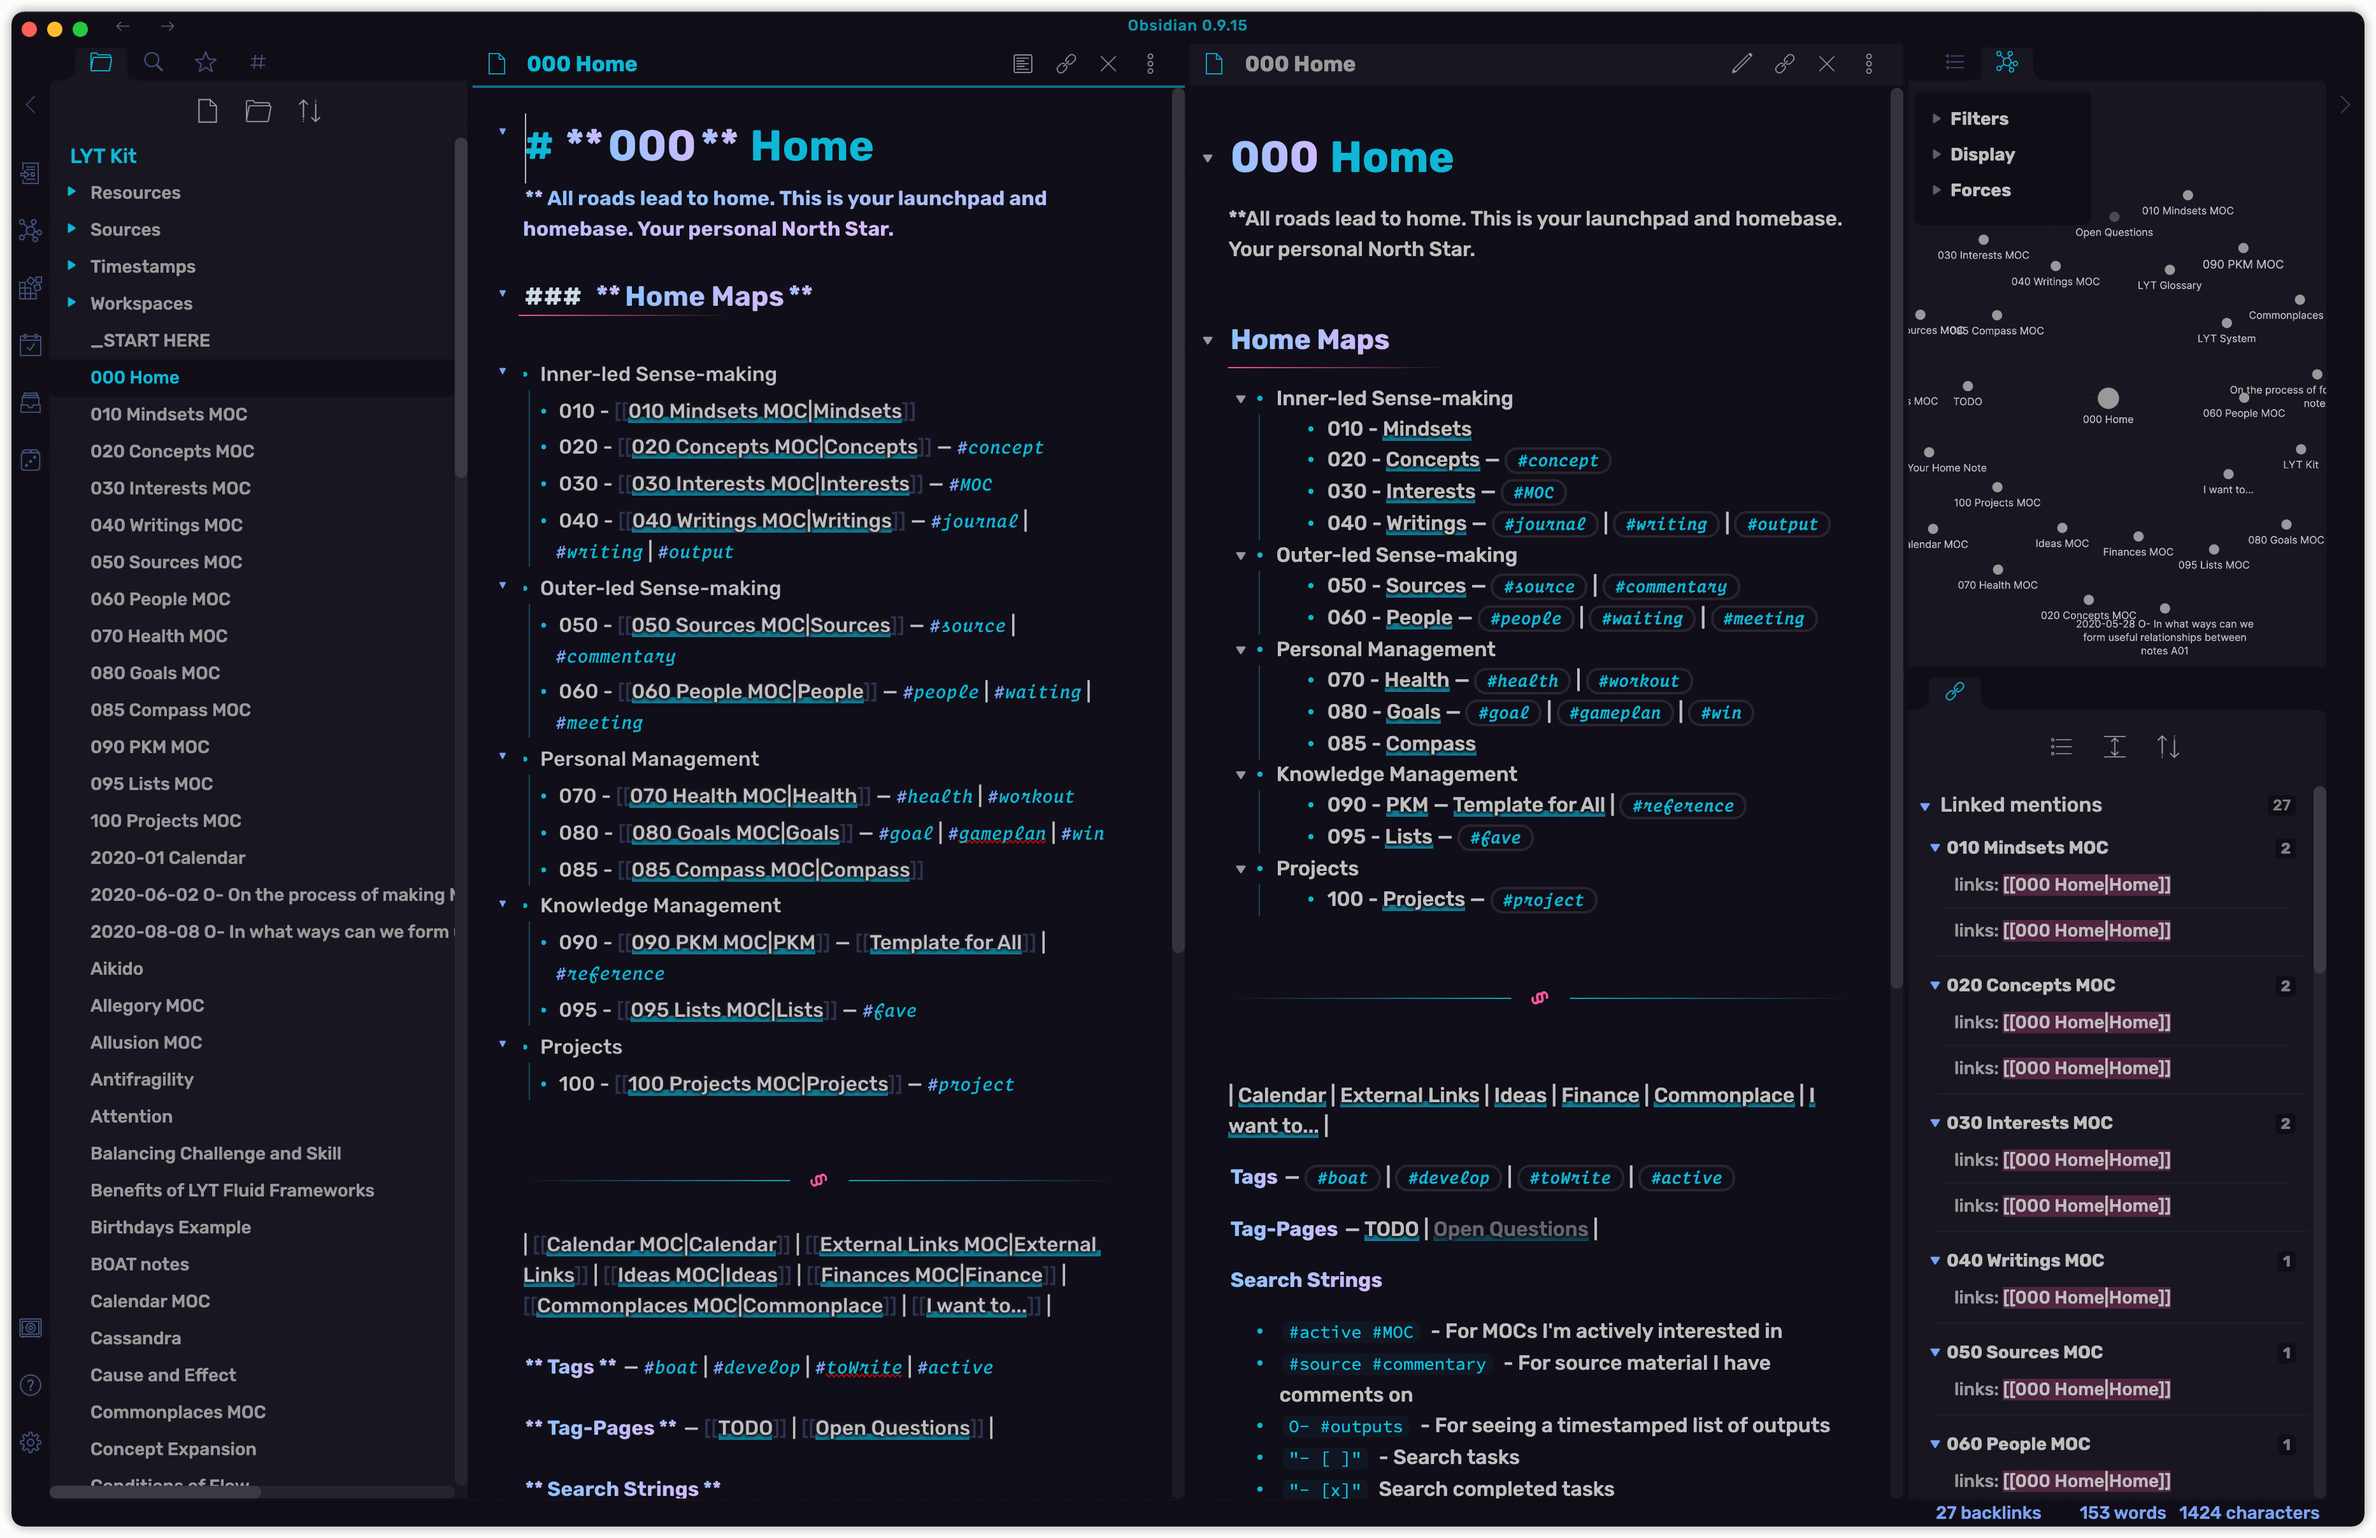
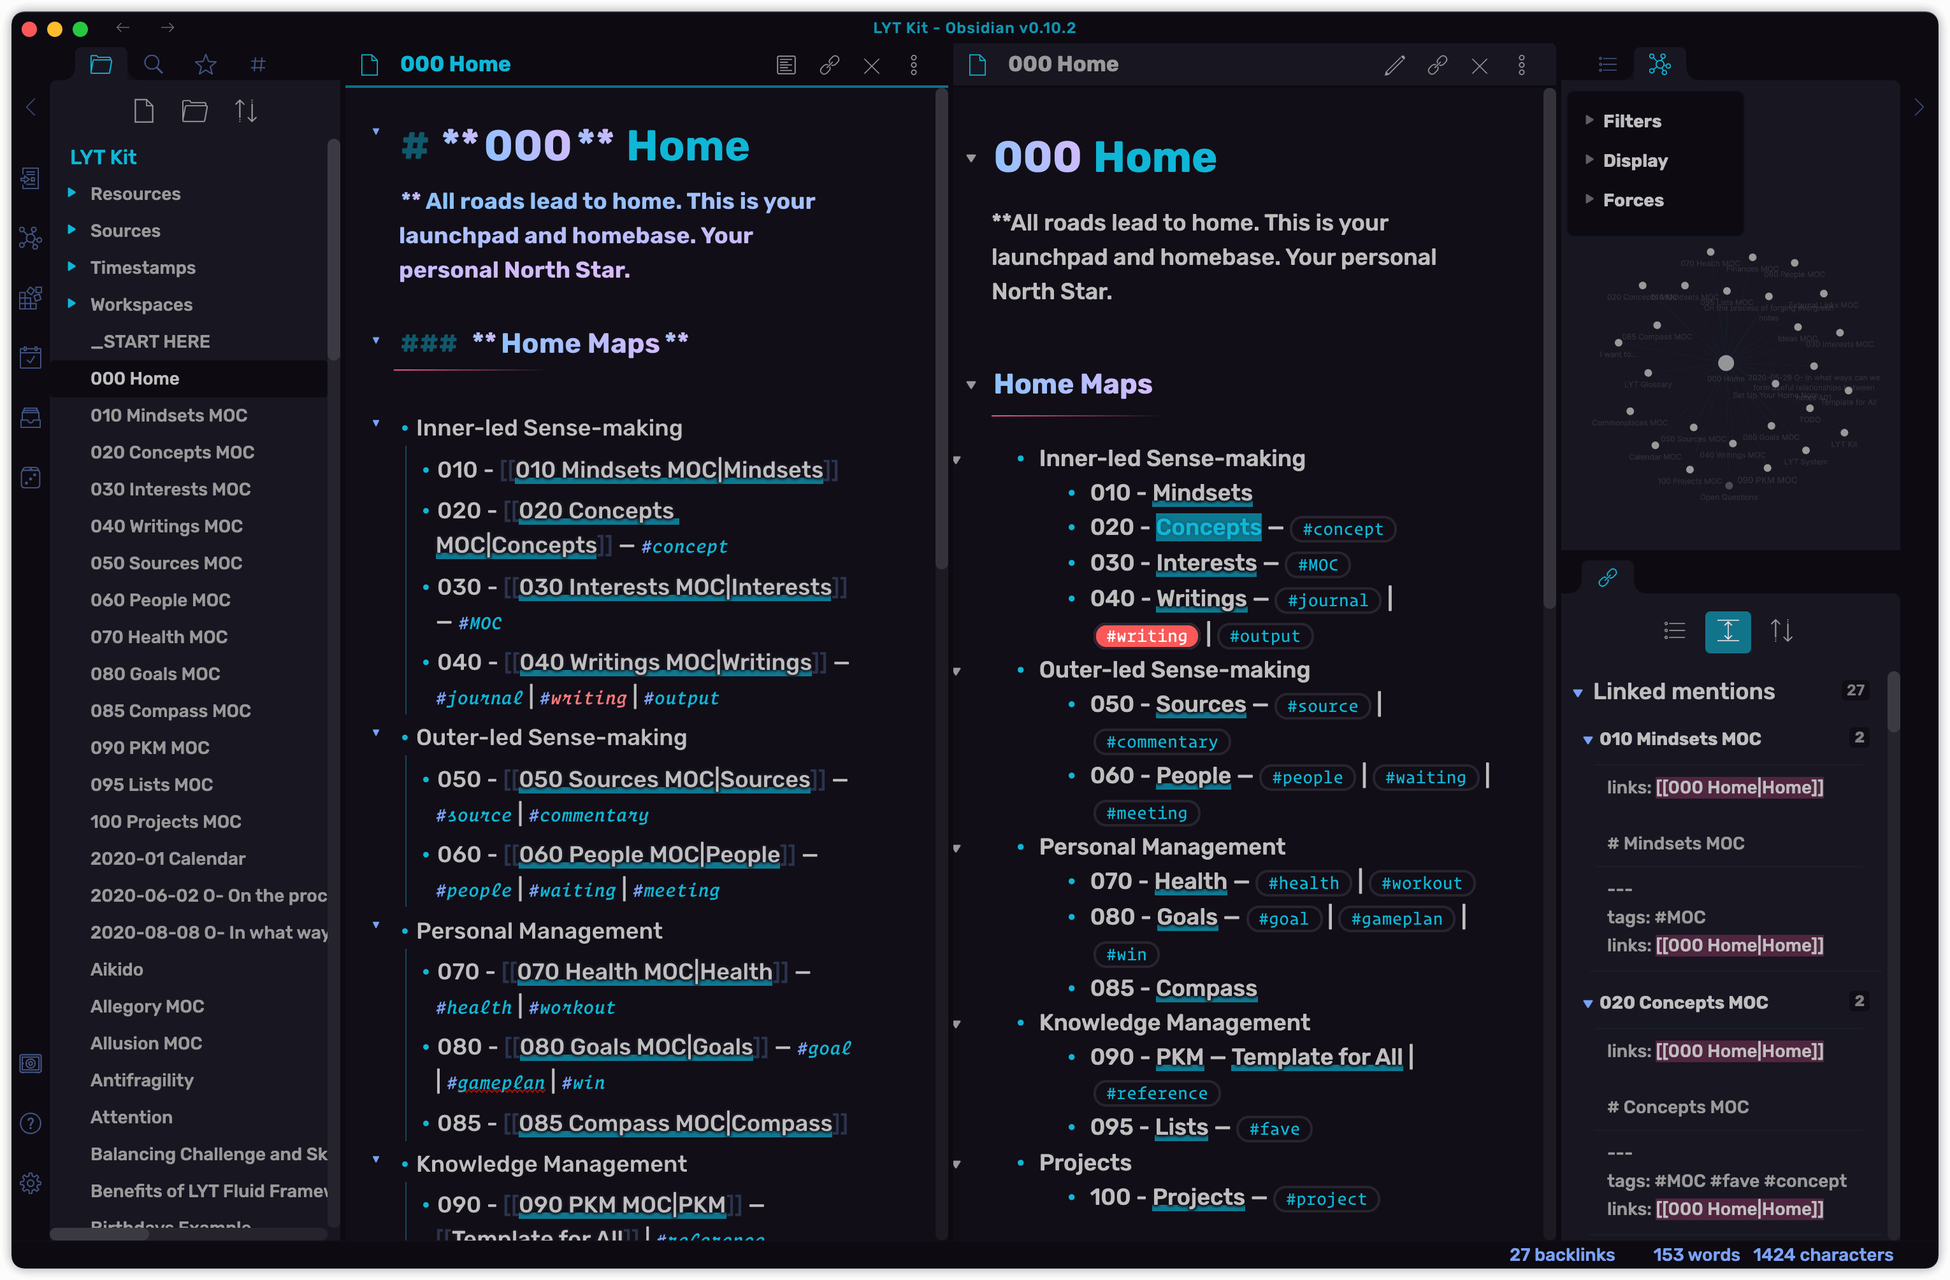
Shipping version 1.1.4

diff --git a/obsidian.css b/obsidian.css
@@ -5,7 +5,7 @@
 ** ██║   ██║██╔══██╗╚════██║██║██║  ██║██║██╔══██║██║╚██╗██║██║   ██║   ██╔══╝
 ** ╚██████╔╝██████╔╝███████║██║██████╔╝██║██║  ██║██║ ╚████║██║   ██║   ███████╗
 **  ╚═════╝ ╚═════╝ ╚══════╝╚═╝╚═════╝ ╚═╝╚═╝  ╚═╝╚═╝  ╚═══╝╚═╝   ╚═╝   ╚══════╝
-**  —— Version 1.1.3
+**  —— Version 1.1.4
 **  —— Made with 💎 by TriDiamond
 ** Changes Log @see: https://github.com/TriDiamond/Obsidian-Obsidianite/blob/main/CHANGELOG.md
 ** --------------------------------------------------------------- */
@@ -96,8 +96,10 @@
   /***************************************/
 
   /** Font Customization **/
-  --default-font: 'Rubik', 'Glow Sans SC', 'Inter', -apple-system, BlinkMacSystemFont, 'Segoe UI',
-    Roboto, Helvetica, Arial, sans-serif, 'Apple Color Emoji', 'Segoe UI Emoji', sans-serif;
+  --default-font: 'Rubik', 'Glow Sans SC', -apple-system, BlinkMacSystemFont, 'Segoe UI', Roboto,
+    Helvetica, Arial, sans-serif, 'Apple Color Emoji', 'Segoe UI Emoji', sans-serif;
+
+  --default-font-size: 18px;
 
   /** Main text font weight **/
   --body-font-weight: 450;
@@ -106,6 +108,9 @@
   --tag-font-family: 'OperatorMonoSSmLig-Book', 'Glow Sans SC', '华文细黑', 'STXihei', 'PingFang TC',
     '微软雅黑体', 'Microsoft YaHei New', '微软雅黑', 'Microsoft Yahei', '宋体', 'SimSun',
     'Helvetica Neue', 'Helvetica', Arial, sans-serif !important;
+
+  /** Font specially for codes **/
+  --code-mono-font: 'OperatorMonoSSmLig-Book';
 }
 
 /**-------------------**
@@ -153,13 +158,13 @@ a.tag[href*='#知识'] {
   color: #6cbdf3;
 }
 
-a.tag[href*='#article'],
+a.tag[href*='#writing'],
 a.tag[href*='#文章'] {
   background-color: #f95959;
   color: #fff;
 }
 
-.cm-s-obsidian .CodeMirror-line span.cm-tag-article:not(.cm-formatting-hashtag) {
+.cm-s-obsidian .CodeMirror-line span.cm-tag-writing:not(.cm-formatting-hashtag) {
   color: #ff7a7a;
 }
 
@@ -197,6 +202,10 @@ div:not(.CodeMirror-activeline) > .CodeMirror-line span.cm-formatting-em {
   display: none;
 } */
 
+div:not(.CodeMirror-activeline) > .CodeMirror-line span.cm-em:not(.cm-formatting-em) {
+  padding: 0 0.45rem;
+}
+
 /**-------------------**
 | HEADER CLUTTER FREE
 **--------------------**/
@@ -217,7 +226,7 @@ div:not(.CodeMirror-activeline) > .CodeMirror-line span.cm-formatting-code {
 div:not(.CodeMirror-activeline)
   span.cm-inline-code:not(.cm-formatting):not(.cm-hmd-indented-code):not(.obsidian-search-match-highlight) {
   background-color: rgba(14, 210, 247, 0.05);
-  padding: 0 8.64px;
+  padding: 0 0.55rem;
   border-radius: 0.3rem;
   color: rgba(14, 210, 247, 0.9) !important;
 }
@@ -345,6 +354,7 @@ pre.HyperMD-quote:before {
 
 body {
   font-weight: var(--body-font-weight, normal);
+  font-size: var(--default-font-size, 16px);
 }
 
 .titlebar {
@@ -595,19 +605,15 @@ h6 {
   font-weight: 600;
 }
 
-.HyperMD-header-2::after,
-.HyperMD-header-3::after,
-.HyperMD-header-4::after,
-.HyperMD-header-5::after,
-.HyperMD-header-6::after {
-  position: absolute;
-  content: '';
-  height: 1px;
-  width: 35%;
-  left: 0;
-  bottom: 5px;
-  background-image: linear-gradient(to right, var(--text-sub-accent), #100e17);
-  opacity: 1;
+pre.HyperMD-header.HyperMD-header-2,
+pre.HyperMD-header.HyperMD-header-3,
+pre.HyperMD-header.HyperMD-header-4,
+pre.HyperMD-header.HyperMD-header-5,
+pre.HyperMD-header.HyperMD-header-6 {
+  border-bottom: 1px solid;
+  border-width: 1px;
+  border-image-slice: 1;
+  border-image-source: linear-gradient(to right, var(--text-sub-accent), #100e17, #100e17, #100e17);
 }
 
 .markdown-preview-section h1,
@@ -655,25 +661,22 @@ h6 {
   /* padding-top: 1.25rem; */
   margin: 45px 0 20px 0;
   position: relative;
-}
-
-.markdown-preview-view h2:after,
-.markdown-preview-view h3:after,
-.markdown-preview-view h4:after,
-.markdown-preview-view h5:after,
-.markdown-preview-view h6:after {
-  position: absolute;
-  content: '';
-  height: 1px;
-  width: 35%;
-  left: 0;
-  bottom: -8px;
-  background-image: linear-gradient(to right, var(--text-sub-accent), #100e17);
-  opacity: 1;
+  padding-bottom: 10px;
+  border-bottom: 1px solid;
+  border-width: 35%;
+  border-image-slice: 1;
+  border-image-source: linear-gradient(to right, var(--text-sub-accent), #100e17, #100e17, #100e17);
 }
 
 .view-header-icon {
   color: var(--text-accent);
+}
+
+/** Adding different # colors **/
+
+.cm-formatting.cm-formatting-header.cm-header {
+  color: var(--text-accent);
+  opacity: 0.45;
 }
 
 /**-------------------**
@@ -728,6 +731,15 @@ strong::selection {
 }
 
 /**-------------------**
+| <KBD> STYLING
+**--------------------**/
+
+.cm-strong kbd,
+strong kbd {
+  -webkit-text-fill-color: initial;
+}
+
+/**-------------------**
 | ITALIC STYLES
 **--------------------**/
 
@@ -735,6 +747,13 @@ strong::selection {
 em {
   color: #bb9af7 !important;
   font-family: OperatorMonoSSmLig-Book, Rubik !important;
+}
+
+.cm-em.cm-formatting-em {
+  display: inline-flex;
+  width: 0.45rem;
+  font-size: 0.6rem;
+  vertical-align: text-top;
 }
 
 /**-------------------**
@@ -994,6 +1013,15 @@ a.tag:hover {
   background-size: 4px 50px;
 }
 
+h1 a.tag,
+h2 a.tag,
+h3 a.tag,
+h4 a.tag,
+h5 a.tag,
+h6 a.tag {
+  font-size: inherit !important;
+}
+
 /**-------------------**
 | INLINE CODE STYLING
 **--------------------**/
@@ -1008,6 +1036,12 @@ a.tag:hover {
   color: rgba(14, 210, 247, 0.9) !important;
 }
 
+.cm-s-obsidian span.cm-inline-code.cm-formatting-code {
+  display: inline-flex;
+  max-width: 0.55rem;
+  min-width: 0.55rem;
+}
+
 /**-------------------**
 | CODE FENCE STYLING
 **--------------------**/
@@ -1017,7 +1051,108 @@ a.tag:hover {
 }
 
 .cm-s-obsidian div.HyperMD-codeblock-bg {
-  background-color: var(--background-secondary-alt);
+  background-color: #191621;
+}
+
+.cm-s-obsidian div.HyperMD-codeblock-begin-bg {
+  border-top-left-radius: 0;
+  border-top-right-radius: 0;
+  border: none;
+}
+
+.cm-s-obsidian div.HyperMD-codeblock-begin-bg:before {
+  position: absolute;
+  content: '';
+  top: -59%;
+  left: 0;
+  width: 100%;
+  height: 60%;
+  border-top-left-radius: 0.3em;
+  border-top-right-radius: 0.3em;
+  background-color: #191621;
+}
+
+.cm-s-obsidian div.HyperMD-codeblock-end-bg {
+  border-bottom-left-radius: 0;
+  border-bottom-right-radius: 0;
+  border: none;
+}
+
+.cm-s-obsidian div.HyperMD-codeblock-end-bg:before {
+  position: absolute;
+  content: '';
+  bottom: -59%;
+  left: 0;
+  width: 100%;
+  height: 60%;
+  border-bottom-left-radius: 0.3em;
+  border-bottom-right-radius: 0.3em;
+  background-color: #191621;
+}
+
+.HyperMD-codeblock.CodeMirror-line {
+  padding: 0 1rem !important;
+}
+
+pre {
+  position: relative;
+}
+
+pre[class*='language-']:before {
+  font-family: Rubik, Lato, Lucida Grande, Lucida Sans Unicode, Tahoma, Sans-Serif;
+  font-style: normal;
+  font-weight: 700;
+  font-size: 0.6rem;
+  color: #fff;
+  position: absolute;
+  top: 0.3rem;
+  right: 0.3rem;
+  padding: 0;
+  color: var(--text-accent) !important;
+  content: '';
+  text-transform: uppercase;
+  background: rgba(16, 14, 23, 0.86);
+  border-radius: 8px;
+  padding: 0.1em 0.8em;
+  z-index: 10;
+}
+
+pre[class$='javascript']:before,
+pre[class$='js']:before {
+  content: 'JavaScript';
+}
+
+pre[class$='typescript']:before,
+pre[class$='ts']:before {
+  content: 'typescript';
+}
+
+pre[class$='html']:before {
+  content: 'html';
+}
+
+pre[class$='ejs']:before {
+  content: 'ejs';
+}
+
+pre[class$='vue']:before {
+  content: 'vue';
+}
+
+pre[class$='react']:before {
+  content: 'react';
+}
+
+pre[class$='shell']:before {
+  content: 'Shell';
+}
+
+pre[class$='json']:before {
+  content: 'Json';
+}
+
+pre[class$='python']:before {
+  content: 'python';
 }
 
 /**-------------------**
@@ -1108,7 +1243,6 @@ blockquote {
   word-wrap: break-word;
   padding: 0 5px;
   border-radius: 0.3rem;
-  margin: 0 0.3rem;
   color: rgba(14, 210, 247, 0.9) !important;
 }
 
@@ -1201,7 +1335,7 @@ pre[class*='language-'] {
   background: rgb(40, 41, 54);
   text-shadow: none;
   font-family: 'OperatorMonoSSmLig-Book', PT Mono, Consolas, Monaco, 'Andale Mono', 'Ubuntu Mono',
-    monospace;
+    monospace !important;
   text-align: left;
   white-space: pre;
   word-spacing: normal;

diff --git a/CHANGELOG.md b/CHANGELOG.md
@@ -1,5 +1,27 @@
 # CHANGELOG
 
+## Version 1.1.4 (Dec 27, 2020)
+
+### New Diamonds 💎
+
+- Customized the code fences in editor view.
+- Adding language display for view code fences.
+- Different color for heading “#” in editing mode.
+
+<img src="https://raw.githubusercontent.com/TriDiamond/Obsidian-Obsidianite/main/images/demo4.png"/>
+
+### Improvements ⚡
+
+- Making tags goes with header font size when used on headers.
+- Using border instead of positioning to make header underline. This will improve the stability of the underline rendering.
+
+### Fixes 🔧
+
+- Font size increased will cause inline code’s formatting changes on active. (Would like it to stay stationary in editor mode.)
+- Header highlight lines changed to use border instead for increase compatibility. (#15)
+- Fixed Keystroke tags (`<kbd>`) are not rendered. (#18)
+- Indent on first line of code block (#20)
+
 ## Version 1.1.3 (Nov 21, 2020)
 
 ### New Diamonds 💎

diff --git a/README.md b/README.md
@@ -35,6 +35,7 @@ Obsidian.md custom theme, it's dark and simple but yet still stays sparkles!
 <img src="./images/demo1.png">
 <img src="./images/demo2.png">
 <img src="./images/demo3.png">
+<img src="./images/demo4.png">
 
 ## Customizable Settings
 
